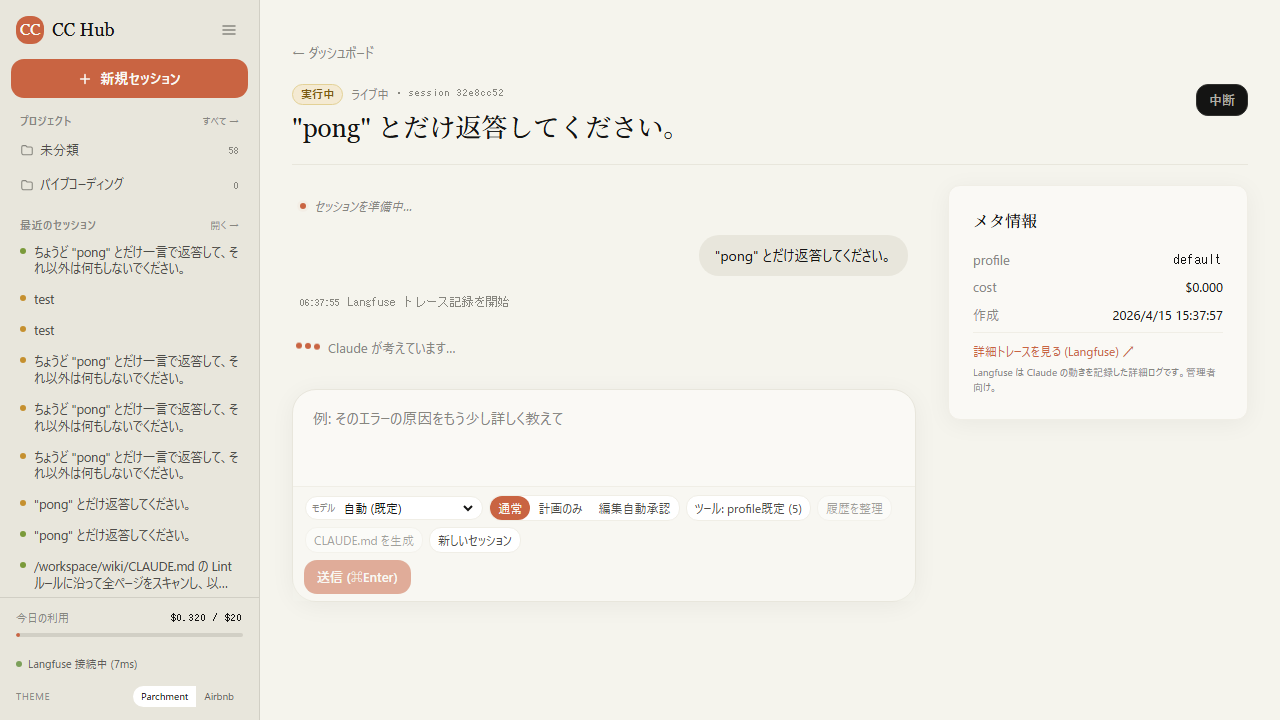
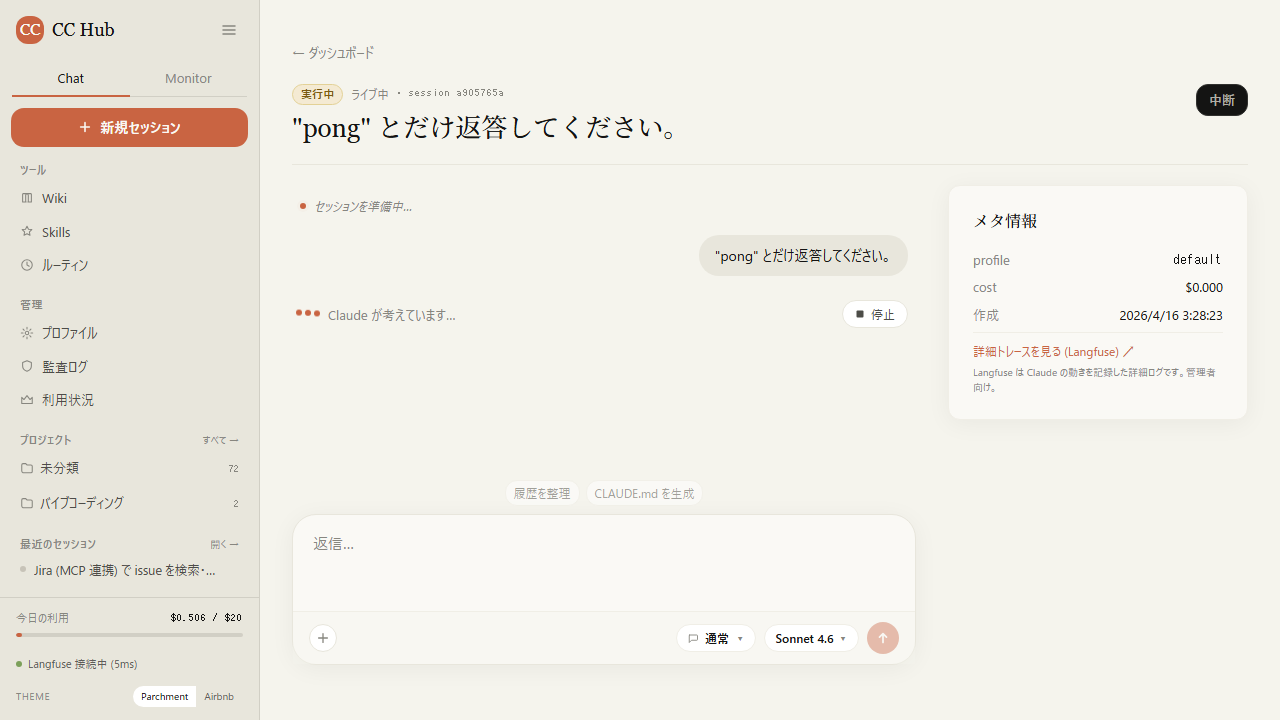
README: refresh all screenshots at 1920x1080 + add Skills/Review/Insights

diff --git a/apps/web/e2e/capture.spec.ts b/apps/web/e2e/capture.spec.ts
@@ -5,24 +5,25 @@ const SHOTS = path.resolve(__dirname, '..', '..', '..', 'docs', 'demo');
 
 test.describe.configure({ mode: 'serial' });
 
-test('capture screenshots for article', async ({ authedPage: page }) => {
-  test.setTimeout(180_000);
+test('capture full screenshots for README', async ({ authedPage: page }) => {
+  test.setTimeout(300_000);
+
+  // フルスクリーン相当の viewport
+  await page.setViewportSize({ width: 1920, height: 1080 });
 
   // 1. Landing
   await page.goto('/');
   await page.waitForLoadState('networkidle');
   await page.screenshot({ path: path.join(SHOTS, '01-landing.png'), fullPage: false });
 
-  // 2. Wiki graph (user vault already seeded with 14 nodes)
+  // 2. Wiki graph
   await page.goto('/wiki');
   await page.waitForLoadState('networkidle');
-  // Let force-directed graph settle for a moment
-  await page.waitForTimeout(3_000);
+  await page.waitForTimeout(4_000);
   await page.screenshot({ path: path.join(SHOTS, '02-wiki-graph.png'), fullPage: false });
 
-  // 3. Wiki reading view — click the "リーディング" tab
+  // 3. Wiki reading view
   await page.getByRole('button', { name: /^リーディング$/ }).click();
-  // Click the concepts/memex page from the tree
   const memexLink = page.getByRole('button', { name: /memex\.md$/ }).first();
   if (await memexLink.isVisible().catch(() => false)) {
     await memexLink.click();
@@ -30,45 +31,66 @@ test('capture screenshots for article', async ({ authedPage: page }) => {
   }
   await page.screenshot({ path: path.join(SHOTS, '03-wiki-reading.png'), fullPage: false });
 
-  // 4. Tasks sidebar with active/past tasks
+  // 4. Landing sidebar (full page)
   await page.goto('/');
   await page.waitForLoadState('networkidle');
   await page.screenshot({ path: path.join(SHOTS, '04-landing-sidebar.png'), fullPage: true });
 
-  // 5. Submit a quick prompt and capture task page mid-stream
-  await page.getByPlaceholder(/今日はどんな/).fill('"pong" とだけ返答してください。');
-  await page.getByRole('button', { name: /送信/ }).click();
-  await page.waitForURL(/\/tasks\/[0-9a-f-]+/, { timeout: 45_000 });
-  // Wait until we see either ThinkingIndicator or the first assistant bubble
-  await expect(
-    page.getByText(/Claude が考えています|完了しました|pong/i).first(),
-  ).toBeVisible({ timeout: 60_000 });
+  // 5. Submit prompt → task view (タイムアウトしやすいので失敗しても続行)
+  try {
+    await page.getByPlaceholder(/今日はどんな/).fill('"pong" とだけ返答してください。');
+    await page.getByRole('button', { name: /送信/ }).click();
+    await page.waitForURL(/\/tasks\/[0-9a-f-]+/, { timeout: 45_000 });
+    await expect(
+      page.getByText(/Claude が考えています|pong/i).first(),
+    ).toBeVisible({ timeout: 60_000 });
+    await page.waitForTimeout(2000);
+    await page.screenshot({ path: path.join(SHOTS, '05-task-view.png'), fullPage: false });
+  } catch {
+    console.warn('[capture] task-view screenshot skipped (timeout or error)');
+  }
+
+  // 6. Skills マーケットプレイス
+  await page.goto('/skills');
+  await page.waitForLoadState('networkidle');
+  await page.waitForTimeout(1000);
+  await page.screenshot({ path: path.join(SHOTS, '06-skills.png'), fullPage: false });
+
+  // 7. Skills レビュー (admin)
+  await page.goto('/admin/skills/review');
+  await page.waitForLoadState('networkidle');
+  await page.waitForTimeout(500);
+  await page.screenshot({ path: path.join(SHOTS, '07-skills-review.png'), fullPage: false });
+
+  // 8. 利用状況ダッシュボード
+  await page.goto('/admin/insights');
+  await page.waitForLoadState('networkidle');
   await page.waitForTimeout(1500);
-  await page.screenshot({ path: path.join(SHOTS, '05-task-view.png'), fullPage: false });
+  await page.screenshot({ path: path.join(SHOTS, '08-insights.png'), fullPage: false });
+
+  // 9. 利用状況 (フルページ — トレンドまで)
+  await page.screenshot({ path: path.join(SHOTS, '09-insights-full.png'), fullPage: true });
 });
 
-test('capture airbnb theme variants', async ({ authedPage: page }) => {
+test('capture Coral White theme', async ({ authedPage: page }) => {
   test.setTimeout(60_000);
+  await page.setViewportSize({ width: 1920, height: 1080 });
 
-  // Flip to airbnb theme
   await page.goto('/');
   await page.evaluate(() => {
     localStorage.setItem('cc-hub-theme', 'airbnb');
     document.documentElement.setAttribute('data-theme', 'airbnb');
   });
 
-  // Landing (airbnb)
   await page.reload();
   await page.waitForLoadState('networkidle');
   await page.screenshot({ path: path.join(SHOTS, 'airbnb-01-landing.png'), fullPage: false });
 
-  // Wiki graph (airbnb)
   await page.goto('/wiki');
   await page.waitForLoadState('networkidle');
   await page.waitForTimeout(3000);
   await page.screenshot({ path: path.join(SHOTS, 'airbnb-02-wiki-graph.png'), fullPage: false });
 
-  // Reset back to parchment so the other capture tests still show default look
   await page.evaluate(() => {
     localStorage.removeItem('cc-hub-theme');
     document.documentElement.removeAttribute('data-theme');
@@ -77,28 +99,25 @@ test('capture airbnb theme variants', async ({ authedPage: page }) => {
 
 test('capture Langfuse trace UI', async ({ browser }) => {
   test.setTimeout(90_000);
-  const ctx = await browser.newContext({ viewport: { width: 1440, height: 860 } });
+  const ctx = await browser.newContext({ viewport: { width: 1920, height: 1080 } });
   const lf = await ctx.newPage();
   await lf.goto('http://localhost:3100/auth/sign-in');
   await lf.waitForLoadState('networkidle');
 
-  // Langfuse v3 sign-in form — email field has name="email", password has name="password"
   const emailInput = lf.locator('input[name="email"]').first();
   await emailInput.waitFor({ state: 'visible', timeout: 10_000 });
   await emailInput.fill('local@cc-hub.local');
   const pwInput = lf.locator('input[name="password"]').first();
   await pwInput.fill('cchub-local-password');
 
-  // Submit and wait for redirect away from sign-in
   await Promise.all([
     lf.waitForURL((url) => !url.toString().includes('sign-in'), { timeout: 15_000 }).catch(() => undefined),
     lf.locator('button[type=submit]').first().click(),
   ]);
   await lf.waitForLoadState('networkidle');
 
-  // Still on sign-in? Give up and screenshot what we have for debugging.
   if (lf.url().includes('sign-in')) {
-    await lf.screenshot({ path: path.join(SHOTS, '06-langfuse-traces.png'), fullPage: false });
+    await lf.screenshot({ path: path.join(SHOTS, '10-langfuse-traces.png'), fullPage: false });
     console.warn('[capture] Langfuse login failed — screenshot shows sign-in');
     await ctx.close();
     return;
@@ -107,6 +126,6 @@ test('capture Langfuse trace UI', async ({ browser }) => {
   await lf.goto('http://localhost:3100/project/cmnyyhcf6000cqf07nmfqx60t/traces');
   await lf.waitForLoadState('networkidle');
   await lf.waitForTimeout(2_000);
-  await lf.screenshot({ path: path.join(SHOTS, '06-langfuse-traces.png'), fullPage: false });
+  await lf.screenshot({ path: path.join(SHOTS, '10-langfuse-traces.png'), fullPage: false });
   await ctx.close();
 });
